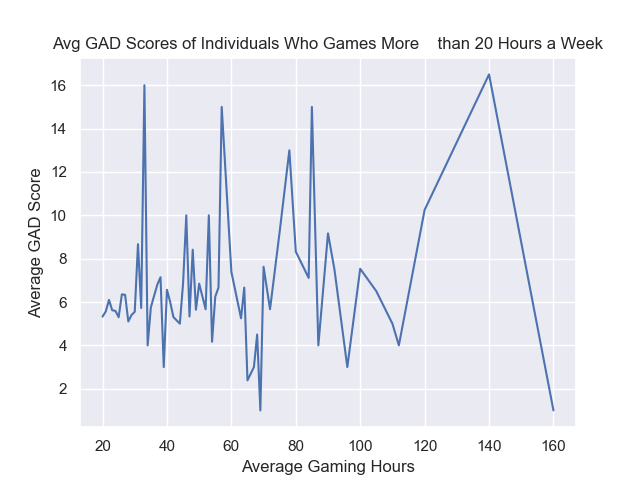
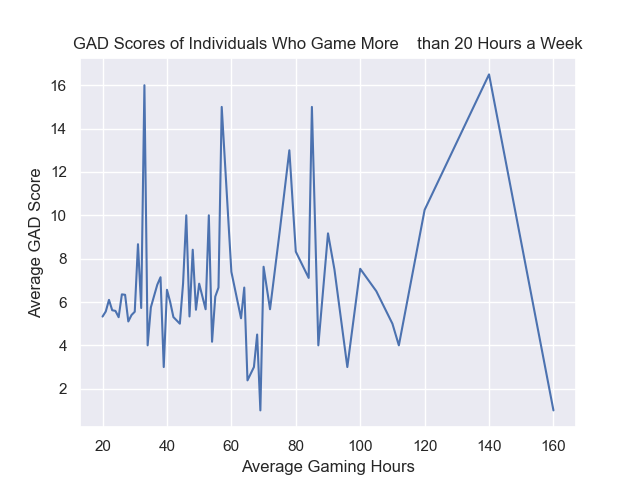
finalized instructions and visualizations

Changed region(s): [[0.0938, 0.0625, 0.9375, 0.125]]

diff --git a/data_visualizations.py b/data_visualizations.py
@@ -36,7 +36,7 @@ def avg_GAD_over_20(data):
 
     plt.xlabel("Average Gaming Hours")
     plt.ylabel("Average GAD Score")
-    plt.title("Avg GAD Scores of Individuals Who Games More\
+    plt.title("GAD Scores of Individuals Who Game More\
     than 20 Hours a Week")
 
     plt.savefig("hours_over_20.png")
@@ -56,13 +56,13 @@ def avg_GAD_under_20(data):
     hours_under_20 = hours_under_20.groupby("Hours",
                                             as_index=False)["GAD_T"].mean()
 
-    sns.lineplot(data=hours_under_20, x="Hours", y="GAD_T")
+    sns.relplot(data=hours_under_20, x="Hours", y="GAD_T", kind='line')
 
     plt.xlabel("Average Gaming Hours")
     plt.ylabel("Average GAD Score")
     plt.title("GAD Scores of Individuals Who Game Under 20hrs/Week")
 
-    plt.savefig("hours_under_20.png")
+    plt.savefig("hours_under_20.png", bbox_inches='tight')
 
 
 def avg_hours_work(data):
@@ -86,8 +86,8 @@ def avg_hours_work(data):
     plt.ylabel("Average Gaming Hours")
     plt.title("Average Weekly Gaming hours of College students\
     and Unemployed Individuals")
-    graph.set_xticklabels(graph.get_xticklabels(), fontsize=9)
-    plt.savefig("work-gaming.png")
+    graph.set_xticklabels(graph.get_xticklabels(), fontsize=8)
+    plt.savefig("work-gaming.png", bbox_inches='tight')
 
 
 def hours_game_age(data):

diff --git a/machine_learning.py b/machine_learning.py
@@ -111,7 +111,7 @@ def ml_narcissism(df):
     model3 = DecisionTreeRegressor()
     model3.fit(features_train3, labels_train3)
 
-    # Find Predictions and Compute error on Training Set and on Testing Set
+    # Find Predictions and Compute error on Testing Set
     predictions = model1.predict(features_test1)
     error = mean_squared_error(labels_test1, predictions)
 

diff --git a/README.md b/README.md
@@ -8,7 +8,7 @@ By: Kiho Noh & Sophia Wei
 
 1. The Online Gaming Dataset can be <a href='https://www.kaggle.com/divyansh22/online-gaming-anxiety-data'>accessed here</a>
 and can be easily downloaded from Kaggle.
-2. Need to import the following libraries:
+2. Need to import these following libraries:
 <ul>
 <li>DecisionTreeRegressor</li>
 <li>DecisionTreeClassifier</li>
@@ -18,8 +18,21 @@ and can be easily downloaded from Kaggle.
 <li>matplotlib.pyplot</li>
 <li>seaborn</li>
 </ul>
-3. In order to run our project, can run the machine_learning.py module alongside the
-data_visualizations.py module to get the predictions and the graphs.
+3. In order to run our project, run the machine_learning.py module alongside the
+data_visualizations.py module to get the predictions and the graphs. After
+running the data_visualizations.py module, 9 graphs should be generated as png
+files as follows:
+<ul>
+<li>age_gaming.png</li>
+<li>excessivegamingnarcissism.png</li>
+<li>Generalized Anxiety Disorder.png</li>
+<li>hours_over_20.png</li>
+<li>hours_under_20.png</li>
+<li>onlinegamingnarcissism.png</li>
+<li>Satisfaction With Life.png</li>
+<li>Social Phobia Inventory Score.png</li>
+<li>work-gaming.png</li>
+</ul>
 
 -----
 
@@ -36,7 +49,7 @@ the narcissism scale?
 -----
 
 
-<b>Dataset</b>
+<b>Information on the Dataset</b>
 
 The dataset we are using contains information collected about online gaming anxiety,
 specifically gaming in association to GAD, satisfaction with life and social phobia. This dataset
@@ -47,6 +60,4 @@ While the dataset includes general identifying information such as gender, age a
 employment status, it also encompasses questions about what game a person plays, gaming
 platforms, the amount of time spent gaming weekly, whether there are any earnings or streaming
 for the games, and the reasons an individual plays the game. These are all categories that factor
-into anxiety, satisfaction with life and social phobia. The psychological study therefore also
-asked and received informative answers on questions involving the gaming individual’s level of
-anxiety, satisfaction with life and degree of social phobia.
+into anxiety, satisfaction with life, social phobia and even narcissistic tendencies and behaviors. The psychological study therefore also asked and received informative answers on questions involving the gaming individual’s level of anxiety, satisfaction with life and degree of social phobia.
